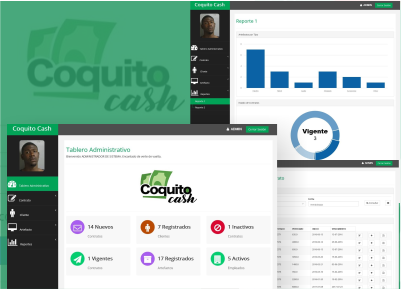
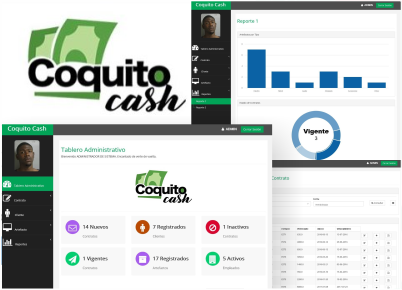
Terminado modales y descripciones, cambios en img

diff --git a/index.html b/index.html
@@ -138,6 +138,7 @@
             </div>
             <div class="row">
                 <div class="col-md-4 col-sm-6 portfolio-item">
+                	<img src="img/header1-bg.jpg" hidden="true">
                     <a href="#portfolioModal1" class="portfolio-link" data-toggle="modal">
                         <div class="portfolio-hover">
                             <div class="portfolio-hover-content">
@@ -158,7 +159,7 @@
                                 <i class="fa fa-mobile fa-3x"></i>
                             </div>
                         </div>
-                        <img src="img/portfolio/startup-framework.png" class="img-responsive" alt="">
+                        <img src="img/portfolio/weatherapp.png" class="img-responsive" alt="">
                     </a>
                     <div class="portfolio-caption">
                         <h4>Weather App</h4>
@@ -231,7 +232,7 @@
             <div class="row">
                 <div class="col-lg-12 text-center">
                     <h2 class="section-heading">Nosotros</h2>
-                    <h3 class="section-subheading text-muted">Te invitamos a conocer nuestra historia.</h3>
+                    <h3 class="section-subheading text-muted">Te invitamos a conocernos un poco más.</h3>
                 </div>
             </div>
             <div class="row">
@@ -243,7 +244,7 @@
                             </div>
                             <div class="timeline-panel">
                                 <div class="timeline-heading">
-                                    <h4>2013-2018</h4>
+                                    <h4>2013</h4>
                                     <h4 class="subheading">Nuestros humildes comienzos</h4>
                                 </div>
                                 <div class="timeline-body">
@@ -294,11 +295,11 @@
                         <h4>Jair Masgo</h4>
                         <p class="text-muted">Desarrollador Principal</p>
                         <ul class="list-inline social-buttons">
-                            <li><a href="https://github.com/Jairmf"><i class="fa fa-github"></i></a>
+                            <li><a href="https://github.com/Jairmf" target="_blank"><i class="fa fa-github"></i></a>
                             </li>
-                            <li><a href="https://www.facebook.com/JairMasgo"><i class="fa fa-facebook"></i></a>
+                            <li><a href="https://www.facebook.com/JairMasgo" target="_blank"><i class="fa fa-facebook"></i></a>
                             </li>
-                            <li><a href="https://www.linkedin.com/in/divad-jair-masgo-ferreyra-3b678997"><i class="fa fa-linkedin"></i></a>
+                            <li><a href="https://www.linkedin.com/in/divad-jair-masgo-ferreyra-3b678997" target="_blank"><i class="fa fa-linkedin"></i></a>
                             </li>
                         </ul>
                     </div>
@@ -309,11 +310,11 @@
                         <h4>Walter Gamarra</h4>
                         <p class="text-muted">Diseñador Principal</p>
                         <ul class="list-inline social-buttons">
-                            <li><a href="https://github.com/wgamarra"><i class="fa fa-github"></i></a>
+                            <li><a href="https://github.com/wgamarra" target="_blank"><i class="fa fa-github"></i></a>
                             </li>
-                            <li><a href="https://www.facebook.com/walterzhit0"><i class="fa fa-facebook"></i></a>
+                            <li><a href="https://www.facebook.com/walterzhit0" target="_blank"><i class="fa fa-facebook"></i></a>
                             </li>
-                            <li><a href="https://www.linkedin.com/in/walter-vicente-gamarra-solorzano-a6a78897"><i class="fa fa-linkedin"></i></a>
+                            <li><a href="https://www.linkedin.com/in/walter-vicente-gamarra-solorzano-a6a78897" target="_blank"><i class="fa fa-linkedin"></i></a>
                             </li>
                         </ul>
                     </div>
@@ -324,11 +325,11 @@
                         <h4>Luigi Falcón</h4>
                         <p class="text-muted">Vendedor Principal</p>
                         <ul class="list-inline social-buttons">
-                            <li><a href="https://github.com/lfalconhao"><i class="fa fa-github"></i></a>
+                            <li><a href="https://github.com/lfalconhao" target="_blank"><i class="fa fa-github"></i></a>
                             </li>
-                            <li><a href="https://www.facebook.com/lfalconhao"><i class="fa fa-facebook"></i></a>
+                            <li><a href="https://www.facebook.com/lfalconhao" target="_blank"><i class="fa fa-facebook"></i></a>
                             </li>
-                            <li><a href="https://www.linkedin.com/in/luigi-falcon-castro-965658123"><i class="fa fa-linkedin"></i></a>
+                            <li><a href="https://www.linkedin.com/in/luigi-falcon-castro-965658123" target="_blank"><i class="fa fa-linkedin"></i></a>
                             </li>
                         </ul>
                     </div>
@@ -414,8 +415,9 @@
             </div>
         </div>
     </section>
-    <iframe src="https://www.google.com/maps/embed?pb=!1m18!1m12!1m3!1d1951.9963623382764!2d-77.04069244206828!3d-11.905594497890357!2m3!1f0!2f0!3f0!3m2!1i1024!2i768!4f13.1!3m3!1m2!1s0x9105d0f60cb34941%3A0xa29d514373ffd02b!2sPimentel+425%2C+Comas+15313!5e0!3m2!1ses-419!2spe!4v1499911132340"
+    <iframe src="https://www.google.com/maps/embed?pb=!1m14!1m8!1m3!1d4642.645520100134!2d-77.04163052334445!3d-11.90620353627402!3m2!1i1024!2i768!4f13.1!3m3!1m2!1s0x0%3A0xdaa344040f4c4299!2sJWL+Developers!5e0!3m2!1ses-419!2spe!4v1500944730009"
     width="100%" height="300" frameborder="0" style="border:0;overflow:hidden;" scrolling="no" allowfullscreen></iframe>
+    
     <footer>
         <div class="container">
             <div class="row">
@@ -424,11 +426,11 @@
                 </div>
                 <div class="col-md-4">
                     <ul class="list-inline social-buttons">
-                        <li><a href="https://twitter.com/jwldevelopers"><i class="fa fa-twitter"></i></a>
+                        <li><a href="https://twitter.com/jwldevelopers" target="_blank"><i class="fa fa-twitter"></i></a>
                         </li>
-                        <li><a href="https://www.facebook.com/jwldevelopers/"><i class="fa fa-facebook"></i></a>
+                        <li><a href="https://www.facebook.com/jwldevelopers/" target="_blank"><i class="fa fa-facebook"></i></a>
                         </li>
-                        <li><a href="https://github.com/JWLsoft"><i class="fa fa-github"></i></a>
+                        <li><a href="https://github.com/JWLsoft" target="_blank"><i class="fa fa-github"></i></a>
                         </li>
                     </ul>
                 </div>
@@ -465,15 +467,15 @@
                                 <h2>Coquito Cash</h2>
                                 <p class="item-intro text-muted">Sistema web de gestión de contratos.</p>
                                 <img class="img-responsive img-centered" src="img/portfolio/coquitocash-preview.png" alt="">
-                                <p>Use this area to describe your project. Lorem ipsum dolor sit amet, consectetur adipisicing elit. Est blanditiis dolorem culpa incidunt minus dignissimos deserunt repellat aperiam quasi sunt officia expedita beatae cupiditate, maiores repudiandae, nostrum, reiciendis facere nemo!</p>
+                                <p>Desarrollamos un sistema para la gestión de contratos de empeño, manejo de clientes y artefactos. Además cuenta con reportes con ayuda de gráficos de barra, torta y lineales.</p>
                                 <p>
-                                    <strong>Want these icons in this portfolio item sample?</strong>You can download 60 of them for free, courtesy of <a href="https://getdpd.com/cart/hoplink/18076?referrer=bvbo4kax5k8ogc">RoundIcons.com</a>, or you can purchase the 1500 icon set <a href="https://getdpd.com/cart/hoplink/18076?referrer=bvbo4kax5k8ogc">here</a>.</p>
+                                    <strong>Si desea echarle un vistazo al código fuente.</strong> Puede ir a nuestro repositorio en <a href="https://github.com/JWLsoft/CoquitoCash" target="_blank">GitHub.com</a>.</p>
                                 <ul class="list-inline">
-                                    <li>Date: July 2014</li>
-                                    <li>Client: Round Icons</li>
-                                    <li>Category: Graphic Design</li>
+                                    <li>Fecha: Mayo 2017</li>
+                                    <li>Cliente: Presta Cash</li>
+                                    <li>Categoría: E-Commerce</li>
                                 </ul>
-                                <button type="button" class="btn btn-primary" data-dismiss="modal"><i class="fa fa-times"></i> Close Project</button>
+                                <button type="button" class="btn btn-primary" data-dismiss="modal"><i class="fa fa-times"></i> Cerrar Proyecto</button>
                             </div>
                         </div>
                     </div>
@@ -496,12 +498,11 @@
                     <div class="row">
                         <div class="col-lg-8 col-lg-offset-2">
                             <div class="modal-body">
-                                <h2>Project Heading</h2>
-                                <p class="item-intro text-muted">Lorem ipsum dolor sit amet consectetur.</p>
-                                <img class="img-responsive img-centered" src="img/portfolio/startup-framework-preview.png" alt="">
-                                <p><a href="http://designmodo.com/startup/?u=787">Startup Framework</a> is a website builder for professionals. Startup Framework contains components and complex blocks (PSD+HTML Bootstrap themes and templates) which can easily be integrated into almost any design. All of these components are made in the same style, and can easily be integrated into projects, allowing you to create hundreds of solutions for your future projects.</p>
-                                <p>You can preview Startup Framework <a href="http://designmodo.com/startup/?u=787">here</a>.</p>
-                                <button type="button" class="btn btn-primary" data-dismiss="modal"><i class="fa fa-times"></i> Close Project</button>
+                                <h2>Weather App</h2>
+                                <p class="item-intro text-muted">Aplicación que muestra el clima en tiempo real.</p>
+                                <img class="img-responsive img-centered" src="img/portfolio/weatherapp-preview.png" alt="">
+                                <p>Weather App es una aplicación que muestra el clima estés donde estés, sincronizándose con tu ubicación. Puedes descargarla desde <a href="https://play.google.com/store/apps" target="_blank">Play Store</a>.</p>
+                                <button type="button" class="btn btn-primary" data-dismiss="modal"><i class="fa fa-times"></i> Cerrar Proyecto</button>
                             </div>
                         </div>
                     </div>
@@ -526,11 +527,14 @@
                             <div class="modal-body">
                                 <!-- Project Details Go Here -->
                                 <h2>Porygon Maze</h2>
-                                <p class="item-intro text-muted">Lorem ipsum dolor sit amet consectetur.</p>
+                                <p class="item-intro text-muted">Juego de plataforma en la que controlas a Porygon.</p>
                                 <img class="img-responsive img-centered" src="img/portfolio/porygon-preview.png" alt="">
-                                <p>Treehouse is a free PSD web template built by <a href="https://www.behance.net/MathavanJaya">Mathavan Jaya</a>. This is bright and spacious design perfect for people or startup companies looking to showcase their apps or other projects.</p>
-                                <p>You can download the PSD template in this portfolio sample item at <a href="http://freebiesxpress.com/gallery/treehouse-free-psd-web-template/">FreebiesXpress.com</a>.</p>
-                                <button type="button" class="btn btn-primary" data-dismiss="modal"><i class="fa fa-times"></i> Close Project</button>
+                                <p>Porrygon es un pokémon perdido que desea encontrarse con su entrenador, para eso tiene que derrotar a los rivales que se interponen en su camino y hallar la salida de este entramado laberinto.</p>
+                                <ul class="list-inline">
+                                    <li>Plataforma: Windows</li>
+                                    <li>Motor Gráfico: OpenGL</li>
+                                </ul>
+                                <button type="button" class="btn btn-primary" data-dismiss="modal"><i class="fa fa-times"></i> Cerrar Proyecto</button>
                             </div>
                         </div>
                     </div>
@@ -555,11 +559,11 @@
                             <div class="modal-body">
                                 <!-- Project Details Go Here -->
                                 <h2>Taxi Bodas</h2>
-                                <p class="item-intro text-muted">Lorem ipsum dolor sit amet consectetur.</p>
+                                <p class="item-intro text-muted">Web diseñada para realizar pedidos para servicios de taxi.</p>
                                 <img class="img-responsive img-centered" src="img/portfolio/taxibodas-preview.png" alt="">
-                                <p>Start Bootstrap's Agency theme is based on Golden, a free PSD website template built by <a href="https://www.behance.net/MathavanJaya">Mathavan Jaya</a>. Golden is a modern and clean one page web template that was made exclusively for Best PSD Freebies. This template has a great portfolio, timeline, and meet your team sections that can be easily modified to fit your needs.</p>
-                                <p>You can download the PSD template in this portfolio sample item at <a href="http://freebiesxpress.com/gallery/golden-free-one-page-web-template/">FreebiesXpress.com</a>.</p>
-                                <button type="button" class="btn btn-primary" data-dismiss="modal"><i class="fa fa-times"></i> Close Project</button>
+                                <p>Taxi Bodas te permite hacer pedidos para transporte en ocasiones especiales como: bodas, bautizos o quinceaños. Además, brindamos servicios a empresas, turistas y personas con discapacidad.</p>
+                                <p>Puedes ver la demo en <a href="https://jwlsoft.github.io/taxibodas/" target="_blank">TaxiBodas</a>.</p>
+                                <button type="button" class="btn btn-primary" data-dismiss="modal"><i class="fa fa-times"></i> Cerrar Proyecto</button>
                             </div>
                         </div>
                     </div>
@@ -584,11 +588,10 @@
                             <div class="modal-body">
                                 <!-- Project Details Go Here -->
                                 <h2>Easy English</h2>
-                                <p class="item-intro text-muted">Lorem ipsum dolor sit amet consectetur.</p>
+                                <p class="item-intro text-muted">Aplicación móvil para aprender inglés rápido y fácil.</p>
                                 <img class="img-responsive img-centered" src="img/portfolio/easyenglish-preview.png" alt="">
-                                <p>Escape is a free PSD web template built by <a href="https://www.behance.net/MathavanJaya">Mathavan Jaya</a>. Escape is a one page web template that was designed with agencies in mind. This template is ideal for those looking for a simple one page solution to describe your business and offer your services.</p>
-                                <p>You can download the PSD template in this portfolio sample item at <a href="http://freebiesxpress.com/gallery/escape-one-page-psd-web-template/">FreebiesXpress.com</a>.</p>
-                                <button type="button" class="btn btn-primary" data-dismiss="modal"><i class="fa fa-times"></i> Close Project</button>
+                                <p>Aplicación para aprender inglés de forma divertida, desde lo más básico hasta lo más avanzado. Al término de este curso podrás hablar y escribir el idioma del futuro fluidamente. Puedes descargarla desde <a href="https://play.google.com/store/apps" target="_blank">Play Store</a>.</p>
+                                <button type="button" class="btn btn-primary" data-dismiss="modal"><i class="fa fa-times"></i> Cerrar Proyecto</button>
                             </div>
                         </div>
                     </div>
@@ -613,11 +616,11 @@
                             <div class="modal-body">
                                 <!-- Project Details Go Here -->
                                 <h2>Like Store</h2>
-                                <p class="item-intro text-muted">Lorem ipsum dolor sit amet consectetur.</p>
+                                <p class="item-intro text-muted">Web de catálogo de productos tecnológicos.</p>
                                 <img class="img-responsive img-centered" src="img/portfolio/likestore-preview.png" alt="">
-                                <p>Dreams is a free PSD web template built by <a href="https://www.behance.net/MathavanJaya">Mathavan Jaya</a>. Dreams is a modern one page web template designed for almost any purpose. It’s a beautiful template that’s designed with the Bootstrap framework in mind.</p>
-                                <p>You can download the PSD template in this portfolio sample item at <a href="http://freebiesxpress.com/gallery/dreams-free-one-page-web-template/">FreebiesXpress.com</a>.</p>
-                                <button type="button" class="btn btn-primary" data-dismiss="modal"><i class="fa fa-times"></i> Close Project</button>
+                                <p>Catálogo de productos tecnológico como: smatrphones, laptops, tablets y accesorios.</p>
+                                <p>Puedes ver la demo en <a href="https://jwlsoft.github.io/likestore/" target="_blank">LikeStore</a>.</p>
+                                <button type="button" class="btn btn-primary" data-dismiss="modal"><i class="fa fa-times"></i> Cerrar Proyecto</button>
                             </div>
                         </div>
                     </div>
